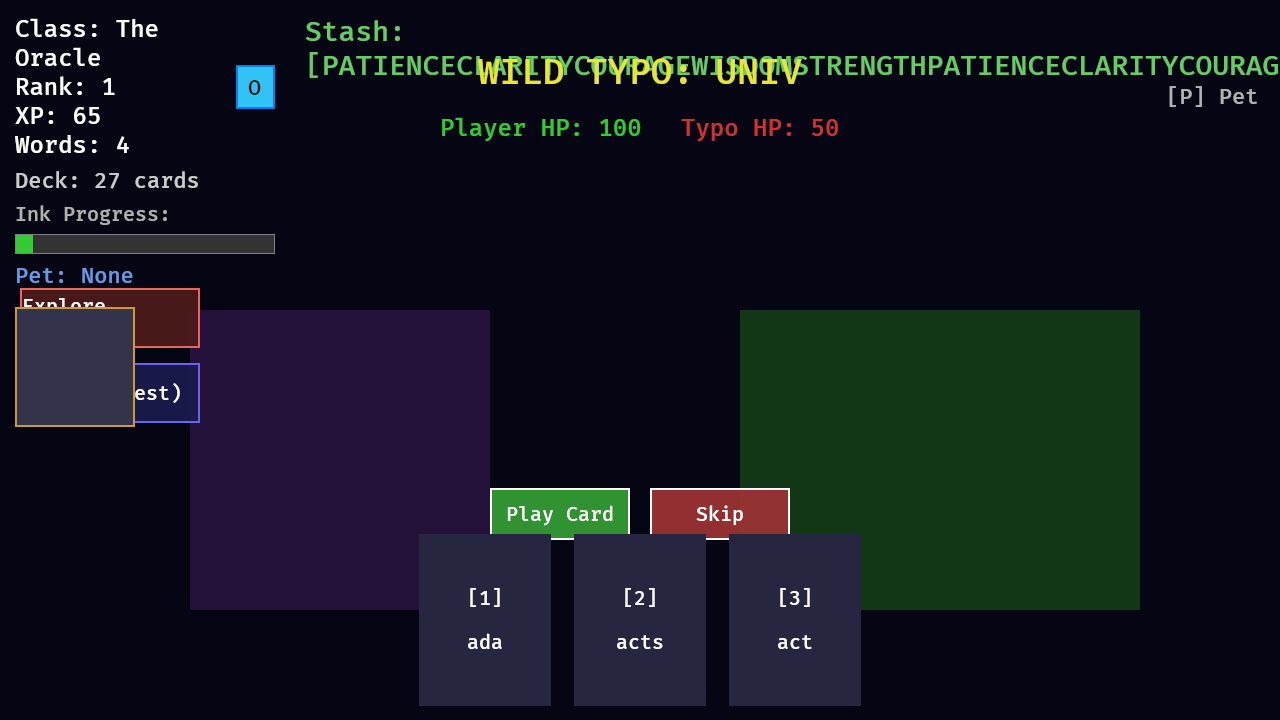
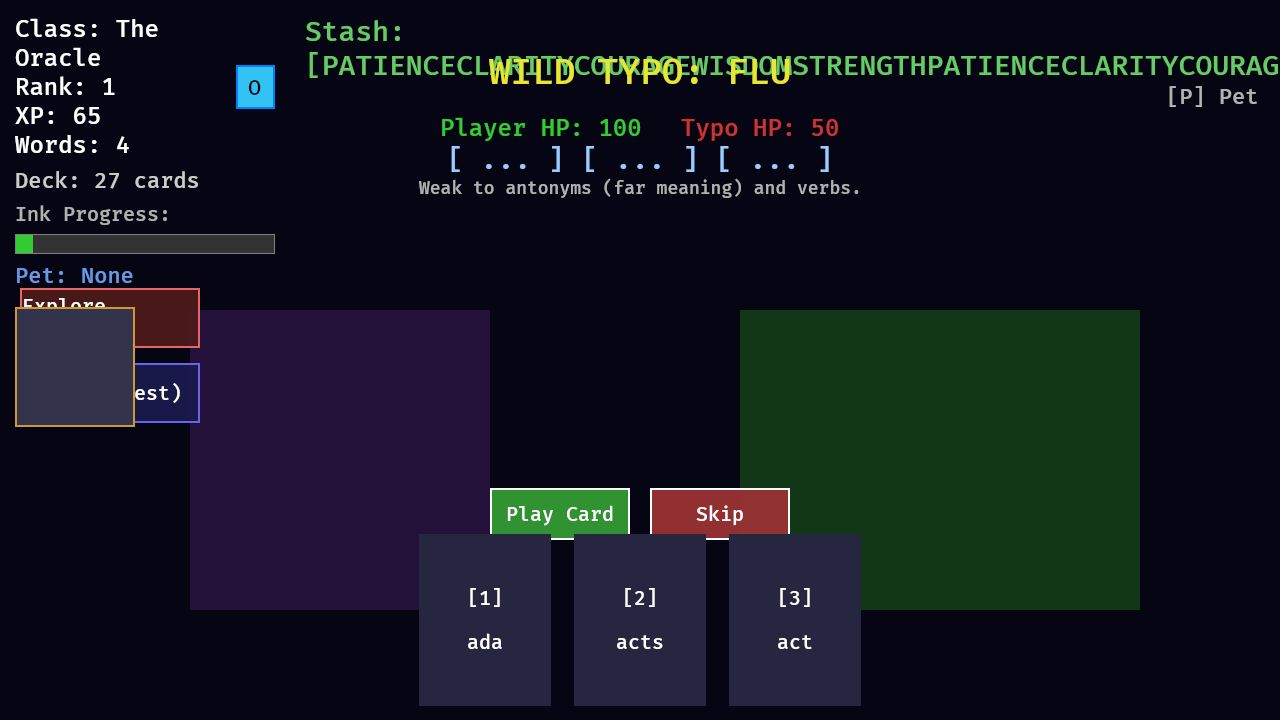
Phase C: Thesaurus Dance sentence-crafting combat — Plot resource, AddToPlot/CastSentence commands, cast_sentence resolver, battle UI preview

Changed region(s): [[0.375, 0.0611, 0.625, 0.1222], [0.3125, 0.2139, 0.6562, 0.275]]

diff --git a/LitTTC/src/core/battle.rs b/LitTTC/src/core/battle.rs
@@ -197,6 +197,30 @@ pub struct BattleSession {
     pub failed_word: Option<String>, // Track word that caused defeat for Tutor Loop
 }
 
+/// The player's sentence-in-progress during Thesaurus Dance combat.
+/// A complete sentence is an adjective + noun + verb trio (max 3 cards).
+#[derive(Resource, Debug, Clone, Default)]
+pub struct Plot {
+    pub cards: Vec<String>,
+    pub max_size: usize,
+}
+
+impl Plot {
+    pub fn new() -> Self {
+        Self { cards: Vec::new(), max_size: 3 }
+    }
+
+    pub fn sentence_preview(&self) -> String {
+        match self.cards.len() {
+            0 => "[ ... ] [ ... ] [ ... ]".to_string(),
+            1 => format!("[ {} ] [ ... ] [ ... ]", self.cards[0]),
+            2 => format!("[ {} ] [ {} ] [ ... ]", self.cards[0], self.cards[1]),
+            3 => format!("[ {} ] [ {} ] [ {} ]", self.cards[0], self.cards[1], self.cards[2]),
+            _ => self.cards.join(" "),
+        }
+    }
+}
+
 #[derive(Component)]
 pub struct CriticalHitTrigger;
 
@@ -301,6 +325,7 @@ pub fn start_battle(
         player_health: 100,
         failed_word: None,
     });
+    commands.insert_resource(Plot::new());
 
     info!("A wild Typo ({}) emerges! Deduce its semantic weakness based on its stats!", typo_word.to_uppercase());
     crate::commands::log_state_transition(state.get(), GameState::Battling);
@@ -502,11 +527,144 @@ pub fn play_battle_card(
     }
 }
 
+/// Resolve the Thesaurus Dance Plot as one cohesive sentence attack.
+///
+/// Damage is summed from each card, then amplified by sentence-level combos
+/// (alliteration, palindrome, oxymoron, hyperbole) and the active FACES stance.
+#[allow(clippy::too_many_arguments)]
+pub fn cast_sentence(
+    session: &mut BattleSession,
+    plot: Option<&mut Plot>,
+    db: &GameDatabase,
+    spellbook: &mut SpellBook,
+    next_state: &mut NextState<GameState>,
+    _sheet: &CharacterSheet,
+    state: &State<GameState>,
+    active_face: Option<&ActiveFace>,
+    mut vaam_metrics: Option<&mut VaamMetrics>,
+) {
+    let plot = match plot {
+        Some(p) => p,
+        None => {
+            warn!("CastSentence called with no Plot resource");
+            return;
+        }
+    };
+
+    if plot.cards.is_empty() {
+        warn!("Cannot cast an empty sentence. Add words to the Plot first.");
+        return;
+    }
+
+    let lower_typo = session.typo_word.to_lowercase();
+    let typo_stats = db.words.get(&lower_typo);
+
+    let mut total_damage: i32 = 0;
+    let mut sentence_multiplier = 1.0;
+    let mut recoil = 0;
+    let mut reflection = 0;
+    let mut logged_words: Vec<String> = Vec::new();
+
+    for word in &plot.cards {
+        let lower_word = word.to_lowercase();
+        logged_words.push(word.clone());
+
+        let mut card_multiplier = 1.0;
+        if let (Some(t_stats), Some(w_stats)) = (typo_stats, db.words.get(&lower_word)) {
+            let distance = semantic_distance(t_stats, w_stats);
+            if distance > 4.0 {
+                card_multiplier *= WAND_DUEL_DISTANCE_BASE_MULTIPLIER + (distance - 4.0) * WAND_DUEL_DISTANCE_SCALE;
+            } else if distance < 2.0 {
+                card_multiplier *= SYNONYM_BOOST_MULTIPLIER;
+            }
+
+            match w_stats.part_of_speech.to_lowercase().as_str() {
+                "noun" => card_multiplier *= NOUN_SUMMON_MULTIPLIER,
+                "adjective" => card_multiplier *= ADJECTIVE_AURA_MULTIPLIER,
+                "verb" => card_multiplier *= VERB_ACTION_MULTIPLIER,
+                _ => {}
+            }
+        }
+
+        if is_oxymoron(&session.typo_word, word, db) {
+            sentence_multiplier *= OXYMORON_ARMOR_PIERCING;
+            if let Some(ref mut metrics) = vaam_metrics {
+                metrics.record_literary_device("oxymoron");
+            }
+        }
+        if is_hyperbole(word, db) {
+            sentence_multiplier *= HYPERBOLE_OVERCHARGE;
+            recoil += HYPERBOLE_RECOIL_DAMAGE;
+            if let Some(ref mut metrics) = vaam_metrics {
+                metrics.record_literary_device("hyperbole");
+            }
+        }
+        if is_palindrome(word) {
+            reflection += (BASE_DAMAGE * card_multiplier * PALINDROME_REFLECTION_PERCENT) as i32;
+            if let Some(ref mut metrics) = vaam_metrics {
+                metrics.record_literary_device("palindrome");
+            }
+        }
+
+        total_damage += (BASE_DAMAGE * card_multiplier) as i32;
+        spellbook.upgrade_mastery(word, MasteryLevel::Owned);
+        if let Some(ref mut metrics) = vaam_metrics {
+            metrics.record_successful_acquisition(word, card_multiplier);
+        }
+    }
+
+    // Sentence-level alliteration bonus.
+    let refs: Vec<&str> = plot.cards.iter().map(|s| s.as_str()).collect();
+    if is_alliteration(&refs) {
+        sentence_multiplier *= 1.2;
+        info!("ALLITERATION! The verse flows with matching sounds (+20%)");
+        if let Some(ref mut metrics) = vaam_metrics {
+            metrics.record_literary_device("alliteration");
+        }
+    }
+
+    // Apply FACES emotional stance once to the whole sentence.
+    if let Some(face) = active_face {
+        match face.face {
+            SlimeFace::Fierce => sentence_multiplier *= 1.2,
+            SlimeFace::Joyful => sentence_multiplier *= 1.1,
+            SlimeFace::Calm => sentence_multiplier *= 1.0,
+            SlimeFace::Angry => sentence_multiplier *= 1.3,
+        }
+    }
+
+    let final_damage = (total_damage as f32 * sentence_multiplier) as i32 + reflection;
+    session.typo_health -= final_damage;
+    session.player_health -= recoil;
+
+    info!("CAST SENTENCE: '{}' deals {} damage. Typo health: {}/{}",
+        plot.cards.join(" "), final_damage, session.typo_health, TYPO_MAX_HEALTH);
+
+    plot.cards.clear();
+
+    if session.typo_health <= 0 {
+        info!("VICTORY! The crafted sentence purified '{}'.", session.typo_word);
+        for word in &logged_words {
+            spellbook.upgrade_mastery(word, MasteryLevel::Mastered);
+        }
+        crate::commands::log_state_transition(state.get(), GameState::Reviewing);
+        next_state.set(GameState::Reviewing);
+    } else if session.player_health <= 0 {
+        warn!("DEFEAT! '{}' corrupted the verse. Entering Tutor Loop.", session.typo_word);
+        session.failed_word = Some(session.typo_word.clone());
+        crate::commands::log_state_transition(state.get(), GameState::Questing);
+        next_state.set(GameState::Questing);
+    }
+}
+
 #[derive(Component)]
 pub struct PlayerHealthBar;
 
 #[derive(Component)]
 pub struct EnemyHealthBar;
+
+#[derive(Component)]
+pub struct PlotPreviewText;
 
 #[derive(Component)]
 pub struct BattleUiMarker;
@@ -799,14 +957,31 @@ fn spawn_battle_ui_2d(
                 TextColor(Color::srgb(0.8, 0.2, 0.2)),
             ));
         });
+
+        // Plot / sentence preview
+        parent.spawn((
+            PlotPreviewText,
+            Text::new("[ ... ] [ ... ] [ ... ]"),
+            TextFont { font_size: 28.0, ..default() },
+            TextColor(Color::srgb(0.6, 0.8, 1.0)),
+        ));
+
+        // Hint line
+        parent.spawn((
+            Text::new("Weak to antonyms (far meaning) and verbs."),
+            TextFont { font_size: 18.0, ..default() },
+            TextColor(Color::srgb(0.7, 0.7, 0.7)),
+        ));
     });
 }
 
 #[cfg(not(feature = "xr"))]
 fn update_battle_hp_bars_2d(
     session: Option<Res<BattleSession>>,
-    mut player_bar: Query<&mut Text, (With<PlayerHealthBar>, Without<EnemyHealthBar>)>,
-    mut enemy_bar: Query<&mut Text, (With<EnemyHealthBar>, Without<PlayerHealthBar>)>,
+    plot: Option<Res<Plot>>,
+    mut player_bar: Query<&mut Text, (With<PlayerHealthBar>, Without<EnemyHealthBar>, Without<PlotPreviewText>)>,
+    mut enemy_bar: Query<&mut Text, (With<EnemyHealthBar>, Without<PlayerHealthBar>, Without<PlotPreviewText>)>,
+    mut plot_text: Query<&mut Text, With<PlotPreviewText>>,
 ) {
     let session = match session {
         Some(s) => s,
@@ -816,9 +991,15 @@ fn update_battle_hp_bars_2d(
     if let Some(mut text) = player_bar.iter_mut().next() {
         text.0 = format!("Player HP: {}", session.player_health);
     }
-    
+
     if let Some(mut text) = enemy_bar.iter_mut().next() {
         text.0 = format!("Typo HP: {}", session.typo_health);
+    }
+
+    if let Some(p) = plot {
+        if let Some(mut text) = plot_text.iter_mut().next() {
+            text.0 = p.sentence_preview();
+        }
     }
 }
 

diff --git a/LitTTC/src/core/commands.rs b/LitTTC/src/core/commands.rs
@@ -35,6 +35,14 @@ pub enum GameCommand {
     /// Retreat from the current battle.
     FleeBattle,
 
+    // ─── THESAURUS DANCE (SENTENCE CRAFTING) ────────────────────────────
+    /// Add the card at the given hand index to the battle Plot.
+    AddToPlot(usize),
+    /// Remove the card at the given Plot index.
+    RemoveFromPlot(usize),
+    /// Cast the constructed sentence as a single attack.
+    CastSentence,
+
     // ─── QUEST ──────────────────────────────────────────────────────────
     /// Start a quest from the named NPC.
     StartQuest(String),
@@ -96,6 +104,7 @@ pub struct CommandContext<'w> {
     pub sheet: ResMut<'w, crate::components::CharacterSheet>,
     pub trail: ResMut<'w, crate::components::WordTrail>,
     pub session_battle: Option<ResMut<'w, crate::battle::BattleSession>>,
+    pub plot: Option<ResMut<'w, crate::battle::Plot>>,
     pub session_quest: Option<ResMut<'w, crate::quest::QuestSession>>,
     pub hand: ResMut<'w, crate::components::Hand>,
     pub deck: Option<ResMut<'w, crate::components::Deck>>,
@@ -126,6 +135,7 @@ pub fn handle_game_commands(
         mut sheet,
         mut trail,
         mut session_battle,
+        mut plot,
         mut session_quest,
         mut hand,
         mut deck,
@@ -282,9 +292,59 @@ pub fn handle_game_commands(
             GameCommand::FleeBattle => {
                 if *state.get() == GameState::Battling {
                     commands.remove_resource::<crate::battle::BattleSession>();
+                    commands.remove_resource::<crate::battle::Plot>();
                     let next = if cfg!(feature = "flat2d") { GameState::Exploring } else { GameState::Playing };
                     log_state_transition(state.get(), next.clone());
                     next_state.set(next);
+                }
+            }
+
+            GameCommand::AddToPlot(idx) => {
+                if *state.get() == GameState::Battling {
+                    if let Some(ref mut p) = plot {
+                        if *idx < hand.cards.len() && p.cards.len() < p.max_size {
+                            let word = hand.cards.remove(*idx);
+                            p.cards.push(word.clone());
+                            info!("Added '{}' to the Plot. Sentence: {}", word, p.sentence_preview());
+                            hand.selected = None;
+                        } else {
+                            warn!("AddToPlot index {} out of bounds or Plot full", idx);
+                        }
+                    }
+                }
+            }
+
+            GameCommand::RemoveFromPlot(idx) => {
+                if *state.get() == GameState::Battling {
+                    if let Some(ref mut p) = plot {
+                        if *idx < p.cards.len() {
+                            let word = p.cards.remove(*idx);
+                            hand.cards.push(word.clone());
+                            info!("Removed '{}' from the Plot. Sentence: {}", word, p.sentence_preview());
+                        } else {
+                            warn!("RemoveFromPlot index {} out of bounds", idx);
+                        }
+                    }
+                }
+            }
+
+            GameCommand::CastSentence => {
+                if *state.get() == GameState::Battling {
+                    if let Some(ref mut session) = session_battle {
+                        let face_ref = active_face.as_deref();
+                        let vaam_ref = vaam_metrics.as_deref_mut();
+                        crate::battle::cast_sentence(
+                            session,
+                            plot.as_deref_mut(),
+                            &db,
+                            &mut spellbook,
+                            &mut next_state,
+                            &sheet,
+                            &state,
+                            face_ref,
+                            vaam_ref,
+                        );
+                    }
                 }
             }
 

diff --git a/LitTTC/src/main.rs b/LitTTC/src/main.rs
@@ -409,8 +409,11 @@ fn autoplay_system(
         }
         GameState::Battling => {
             if battle_session.is_some() {
-                writer.write(crate::commands::GameCommand::SelectCard(0));
-                writer.write(crate::commands::GameCommand::PlayCard);
+                // Thesaurus Dance: build a sentence and cast it.
+                writer.write(crate::commands::GameCommand::AddToPlot(0));
+                writer.write(crate::commands::GameCommand::AddToPlot(0));
+                writer.write(crate::commands::GameCommand::AddToPlot(0));
+                writer.write(crate::commands::GameCommand::CastSentence);
                 autoplay.timer.set_duration(std::time::Duration::from_secs(1));
                 autoplay.timer.reset();
             }

diff --git a/LitTTC/task.md b/LitTTC/task.md
@@ -391,13 +391,14 @@ Added unit and integration tests across the engine. Test count: 39 → 128 (48 u
 - [x] Add 2-3 districts using background color/rect zones (Garden, Shadow Library, Irony Junction).
 
 ### Phase C — Thesaurus Dance Combat
-- [ ] Replace the current single-card battle with the sentence-crafting system.
-- [ ] Add `Plot` resource: `Vec<SpellBookEntry>` with max length 3.
-- [ ] Add an `AltarDropZone` or equivalent hand/altar UI in the 2D battle screen.
-- [ ] Show the enemy word and its weakness hint ("weak to antonyms / verbs").
+- [x] Replace the current single-card battle with the sentence-crafting system.
+- [x] Add `Plot` resource with max length 3.
+- [x] Add a live sentence preview + weakness hint in the 2D battle screen.
+- [/] Add an `AltarDropZone` or equivalent hand/altar UI in the 2D battle screen.
+- [x] Show the enemy word and its weakness hint ("weak to antonyms / verbs").
 - [ ] Render hand cards with word + part-of-speech + synonym hint.
 - [ ] Allow clicking a card to add it to the Plot; allow removing cards.
-- [ ] Show the constructed sentence preview: "[searing] [sword] [strikes]".
+- [x] Show the constructed sentence preview: "[searing] [sword] [strikes]".
 - [ ] Add a "CAST SPELL" button that resolves the Plot.
 - [ ] Implement `detect_literary_devices(plot: &Plot) -> Vec<LiteraryDevice>`:
   - [ ] Alliteration